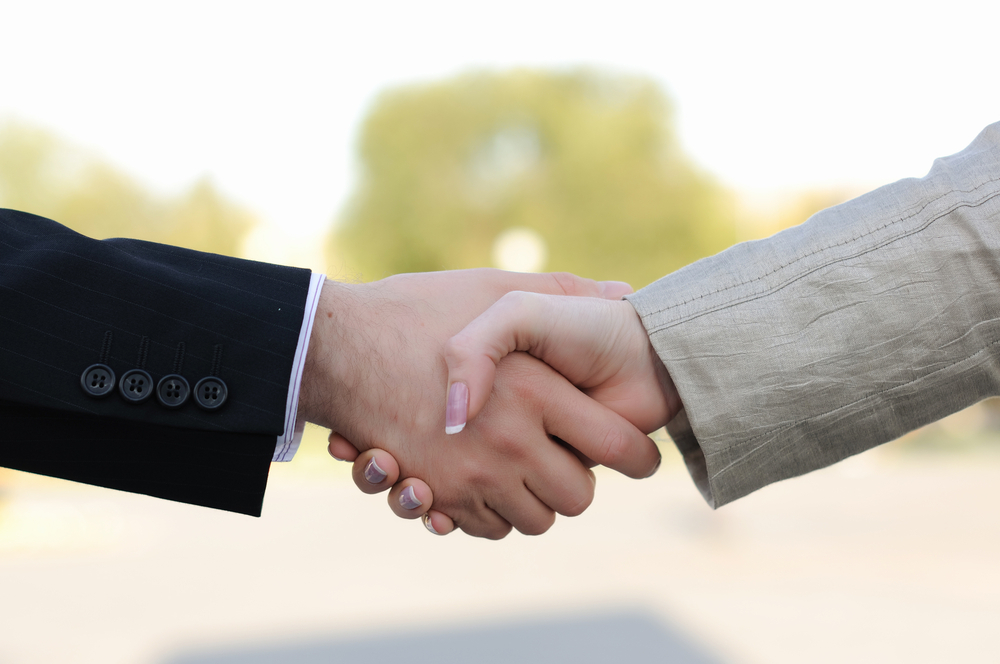
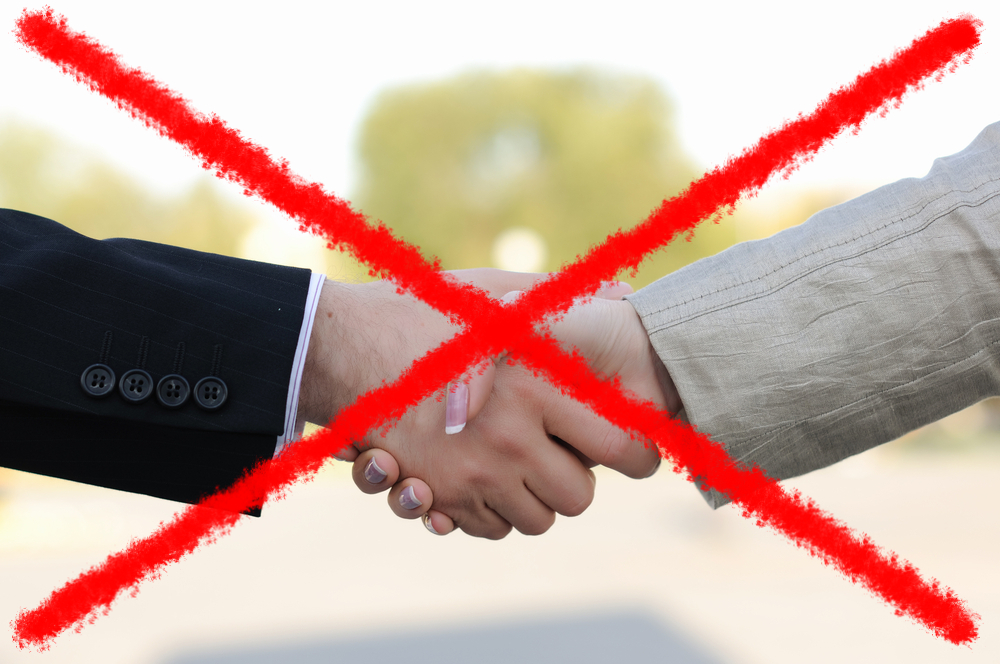
Deal update

Changed region(s): [[0.0, 0.0, 0.992, 0.994]]

diff --git a/mozilla-vs-google/index.html b/mozilla-vs-google/index.html
@@ -57,7 +57,7 @@
 				<section data-background="img/browser-war.jpg">
 					<img class="stretch" src="img/titre.png">
 					<p style="color:#fff;font-weight:bold;">
-						Théo Chevalier, Romain Déjean, Dioundiouba Diagne <br> M1 MIAGE &ndash; 2014-11-14, Toulouse
+						Théo Chevalier, Romain Déjean, Dioundiouba Diagne <br> M1 MIAGE &ndash; 2014-11-19, Toulouse
 					</p>
 				</section>
 
@@ -119,12 +119,12 @@
 
 
 				<section>
-					<h2>They both need each other</h2>
+					<h2>They need<i style="color:red;">ed</i> each other</h2>
 					<img class="stretch" src="img/business-partner.jpg">
 				</section>
 
 				<section data-transition="linear">
-					<h2>The Search Deal</h2>
+					<h2>The Search Deal <i style="color:red;">(it’s over)</i></h2>
 					<br>
 					<ul>
 						<li>Google as default search engine: ~$300 Million per year</li>
@@ -218,6 +218,7 @@
 						<li>Testing</li>
 						<li>User Support</li>
 						<li>Documentation</li>
+						<li>…</li>
 					</ul>
 				</section>
 
